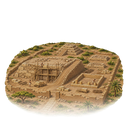
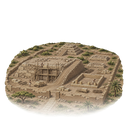
Royal Tomb takes the map grade; tomb-stands card shows its painting; one game-length line
- Map copy landmarks/goal-royaltomb-256.png and stages muted to the wonders' map saturation (tools/art/goal-landmark-grade.py); cards keep the unlocks/ copy.
- Egypt's own tomb-stands card shows goal-royaltomb.
- Records: PROVENANCE, construction and unlocks READMEs, legatum-art rule.
- Text: the calendar note drops its 250-300 turn line (the Guide says 140-220); the tomb stands at its capital; the multi-player refusal says 'other players' like the title screen.

Claude-Session: https://claude.ai/code/session_01YXxZpmSsmtkSw6yxEwzLwx

diff --git a/app/src/ui/GuideContent.tsx b/app/src/ui/GuideContent.tsx
@@ -290,7 +290,7 @@ export function GuideContent({ section }: { section: GuideSection }) {
       <p>Select a level {RULES.coloniaLevel} melee veteran and the Settle lens rings each site that counts in gilt, judged from the land you have explored. Its top three picks are then Colonia sites, and on such a site its card offers “Found Colonia Victrix”. If no site you know counts yet, explore within {RULES.coloniaBorderReach} tiles of a rival’s land.</p>
       <p>Every empire sees where the Colonia Victrix stands, even through fog. Whoever holds its city scores {factionGoalVp('Rome')} VP; capturing it takes the points, and retaking it brings them back. If it is razed or sacked, the points are gone and Rome may found another.</p>
       <p><b>The Royal Tomb (Egypt):</b> goes to whoever holds its city. Build the Royal Tomb from the Victory race (G). While the work is on, none of your cities builds or grows. Each city loses its Production and its Food beyond what its people eat; its breakdown shows it. Gold and Science still come in, and you can still buy with Gold. A city short of Food still starves.</p>
-      <p>After {RULES.tombTurns} turns of work the tomb stands in your capital, or in your largest city if you have no capital, and your cities build and grow again. You may pause at any time: the count is kept, and resuming carries on from it. Every empire sees the work, its count and the city where the tomb will stand, and the turn report says when it starts, pauses and finishes.</p>
+      <p>After {RULES.tombTurns} turns of work the tomb stands at your capital, or at your largest city if you have no capital, and your cities build and grow again. You may pause at any time: the count is kept, and resuming carries on from it. Every empire sees the work, its count and the city where the tomb will stand, and the turn report says when it starts, pauses and finishes.</p>
       <p>Whoever holds the tomb’s city scores {factionGoalVp('Egypt')} VP; capturing it takes the points, and retaking it brings them back. If the city is razed or sacked, the tomb is gone and Egypt may build another from the start.</p>
       <p>A gilt-ringed seal on a city banner means that holding the city scores VP: the capital star, Rome’s laurel for the Colonia Victrix, and Egypt’s tomb for the Royal Tomb. A dashed seal means it does not stand yet: while Egypt builds, the tomb seal is dashed on the city where it will stand.</p>
       <p>Action goals have a visible button in the Victory race, even while blocked; the disabled button says what is needed. Press G to open an available goal action. Athens can Share the Learning, the Celts can raise warbands, the Aztecs can kindle the New Fire, and Egypt can build or pause the Royal Tomb. In legacy Sakoku games, the country can be closed for the vow. Sparta can retire a veteran from the Victory race or its unit card. When an action first becomes available, This Turn offers it once; Not now keeps its button in the Victory race. The Celts’ Raise the Warbands is offered only when its {factionGoalVp('Celts')} VP would bring you within 1 VP of victory; before that, use its Victory race button. Athens’ Share the Learning is offered only when its {factionGoalVp('Athens')} VP would win you the game; before that, use its Victory race button. Orders are confirmed first and happen when the turn ends. Share the Learning gives every rival outside Athens’ team {RULES.signalFreeTechs} free technologies, chosen by the rival. A rival that captures an Athenian city also gains one free technology, once per city for each empire. Picks left after an era is finished carry into the next era. A free technology choice you receive stays on your list until you choose.</p>

diff --git a/app/src/celebrate/moments.ts b/app/src/celebrate/moments.ts
@@ -69,7 +69,7 @@ export interface Moment {
 /** The painted building a faction goal's generic completion card shows (the faction's own version: Ruhr Foundry, Lyceum). */
 const GOAL_BUILDING: Partial<Record<Faction, BuildingKind>> = { Germany: 'Forge', Athens: 'Library' };
 /** The painted scene a goal with no building shows: Switzerland's Reserve, the Celts' Warbands, the Aztecs' New Fire. */
-const GOAL_ART: Partial<Record<Faction, string>> = { Switzerland: 'goal-reserve', Celts: 'goal-warbands', Aztecs: 'goal-newfire' };
+const GOAL_ART: Partial<Record<Faction, string>> = { Switzerland: 'goal-reserve', Celts: 'goal-warbands', Aztecs: 'goal-newfire', Egypt: 'goal-royaltomb' };
 
 export function ruinText(reward: RuinReward, cityName: (id: number) => string, faction?: Faction): { title: string; effect: string; lore: string; details: string[]; tier: Tier; deltas: Moment['deltas']; gains: Gain[]; emblem: Emblem } {
   const text: ReturnType<typeof ruinText> = (() => { switch (reward.kind) {
@@ -351,7 +351,7 @@ export function momentsForTurn(events: readonly Event[], viewer: PlayerId, befor
                 details: ['Every empire sees where it stands. A rival that captures it takes the points.', 'If it is razed, found another.'],
                 deltas: [{ counter: 'vp', amount: e.vp }], seal: e.vp });
             } else {
-              push(i, e.player, { goalMark: GOAL_CITY_ICON[goalKind], tier: 'legendary', at, title: 'The Royal Tomb', kicker: name ? `It stands in ${name}` : 'The tomb stands',
+              push(i, e.player, { goalMark: GOAL_CITY_ICON[goalKind], tier: 'legendary', at, title: 'The Royal Tomb', kicker: name ? `It stands in ${name}` : 'The tomb stands', artSlug: GOAL_ART.Egypt,
                 effect: `+${e.vp} VP while you hold it · your cities build and grow again`, lore: 'Cut into the cliff, sealed for eternity.',
                 details: ['Every empire sees where it stands. A rival that captures its city takes the points.'],
                 deltas: [{ counter: 'vp', amount: e.vp }], seal: e.vp });

diff --git a/app/src/data.ts b/app/src/data.ts
@@ -35,7 +35,7 @@ const CALENDAR_LABELS = RULES.calendarLabels as readonly string[];
 /** The display year of a turn, "1040 AD" (core `calendar::calendar_label`, exported with the rules; display only, never a rule). */
 export const calendarLabel = (turn: number): string => CALENDAR_LABELS[Math.min(Math.max(0, Math.floor(turn)), CALENDAR_LABELS.length - 1)];
 /** The one plain line that explains the year wherever it is shown. */
-export const CALENDAR_NOTE = 'The year follows the turn number and changes nothing in the game. A game is expected to end between turn 250 and 300.';
+export const CALENDAR_NOTE = 'The year follows the turn number and changes nothing in the game.';
 export const CAPTURE_RESISTANCE_TURNS: number = RULES.captureResistanceTurns;
 export const ignoresWounds = (faction: Faction | undefined, kind: UnitKind): boolean =>
   !!faction && (RULES.woundImmunity[faction] as readonly string[]).includes(kind);
@@ -624,7 +624,7 @@ export const FACTION_GOAL: Record<Faction, FactionGoal> = {
     name: 'The Royal Tomb', live: goalLive('Egypt'), held: goalHeld('Egypt'), heldItem: 'its city', icon: 'goal-royal-tomb', action: 'Build the Royal Tomb',
     rule: () => `Build the Royal Tomb: ${RULES.tombTurns} turns in which no city builds or grows. Whoever holds its city scores ${goalVp('Egypt')} VP`,
     ask: () => `Build the Royal Tomb: ${RULES.tombTurns} turns in which no city builds or grows`,
-    detail: () => `While you build it, none of your cities builds or grows. After ${RULES.tombTurns} turns of work it stands in your capital. Whoever holds that city scores ${goalVp('Egypt')} VP`,
+    detail: () => `While you build it, none of your cities builds or grows. After ${RULES.tombTurns} turns of work it stands at your capital. Whoever holds that city scores ${goalVp('Egypt')} VP`,
   },
   Aztecs: SWARM_GOAL,
   Switzerland: {

diff --git a/app/src/celebrate/moments.test.ts b/app/src/celebrate/moments.test.ts
@@ -585,6 +585,13 @@ describe('goal city moments', () => {
     expect(card.effect).toMatch(/is building its Royal Tomb in Thebes: 2 VP to whoever holds the city\. 9 turns of work left\.$/);
   });
 
+  it('Egypt’s own tomb-stands card shows the tomb painting', () => {
+    const after = structuredClone(view);
+    after.players[0].faction = 'Egypt';
+    const [card] = momentsForTurn([{ type: 'FactionGoalCompleted', player: 0, faction: 'Egypt', vp: 2 }], 0, view, after);
+    expect(card).toMatchObject({ tier: 'legendary', title: 'The Royal Tomb', goalMark: 'goal-royal-tomb', artSlug: 'goal-royaltomb' });
+  });
+
   it('the owner’s own Colonia Victrix card wears the laurel', () => {
     const after = structuredClone(view);
     after.players[0].faction = 'Rome';

diff --git a/app/src/store.ts b/app/src/store.ts
@@ -1573,7 +1573,7 @@ export const useGame = create<State>((set, get) => {
           }
           throw new Error(olderRulesMessage(save.playtest));
         }
-        if (needsOnlineHost(save)) throw new Error('This game has more than one human player. Open it from Multiplayer with Host from a save, and the others rejoin online.');
+        if (needsOnlineHost(save)) throw new Error('This game has other players. Open it from Multiplayer with Host from a save, and they rejoin online.');
         if (save.client !== 'wasm') throw new Error('This save used the retired TypeScript engine and cannot be loaded by the Rust engine.');
         const client = await createClient(save.client);
         measureTurn('loadClient', () => client.load(save.game));

diff --git a/app/src/map/tombLandmark.ts b/app/src/map/tombLandmark.ts
@@ -14,7 +14,8 @@ import { iconLoaded } from '../icons';
 export interface TombPiece { city: number; owner: number; tile: number; hex: Hex; k: number }
 
 const STEM = 'goal-royaltomb';
-const finishedUrls = import.meta.glob<string>('../assets/unlocks/goal-royaltomb-256.png', { eager: true, query: '?url', import: 'default' });
+// The map's graded copy (tools/art/goal-landmark-grade.py); the goal card keeps the ungraded unlocks/ copy.
+const finishedUrls = import.meta.glob<string>('../assets/landmarks/goal-royaltomb-256.png', { eager: true, query: '?url', import: 'default' });
 const FINISHED_URL = Object.values(finishedUrls)[0] ?? null;
 let finished: HTMLImageElement | null = null;
 

diff --git a/app/src/store.test.ts b/app/src/store.test.ts
@@ -92,7 +92,7 @@ describe.each(clients)('store on the %s client', (_name, available, load) => {
     await useGame.getState().loadSave(oldSave);
     expect(useGame.getState().client).toBe(previous);
     expect(useGame.getState().error).toContain('Open it from Multiplayer with Host from a save');
-    expect(useGame.getState().error).toContain('the others rejoin online');
+    expect(useGame.getState().error).toContain('they rejoin online');
   });
 
   it.skipIf(!available)('only auto-opens the report for diplomacy involving the viewer team', async () => {

diff --git a/tools/art/goal-landmark-grade.py b/tools/art/goal-landmark-grade.py
@@ -1,0 +1,44 @@
+"""Map grade for a faction-goal landmark (the Royal Tomb) after `wonder-art.py` made its master and stages.
+
+`wonder-art.py` gives every landmark the shared `atlas_edit` grade, but a painting that starts warmer than the
+world wonders (the Royal Tomb's sandstone and ochre) still reads orange beside the towns. This takes the map copies
+down to the wonders' map saturation: the finished painting goes to `app/src/assets/landmarks/<stem>-256.png`
+(the map draws it; cards keep the `unlocks/` copy), and the three construction stages are regraded in place.
+
+    python3 tools/art/goal-landmark-grade.py goal-royaltomb 0.66
+
+Run it once, straight after `wonder-art.py master` and `stage`: the stages are overwritten in place, so running it
+again grades them twice. The finished map copy always starts from the master, so that part is repeatable.
+"""
+
+import sys
+from pathlib import Path
+
+from PIL import Image, ImageEnhance
+
+ROOT = Path(__file__).resolve().parents[2]
+ASSETS = ROOT / "app/src/assets"
+
+
+def mute(img: Image.Image, colour: float) -> Image.Image:
+    img = img.convert("RGBA")
+    rgb = ImageEnhance.Color(img.convert("RGB")).enhance(colour)
+    return Image.merge("RGBA", (*rgb.split(), img.getchannel("A")))
+
+
+def main(stem: str, colour: float) -> None:
+    master = ROOT / "docs/design/unlock-art/masters" / f"{stem}.png"
+    (ASSETS / "landmarks").mkdir(exist_ok=True)
+    mute(Image.open(master), colour).resize((256, 256), Image.Resampling.LANCZOS).save(
+        ASSETS / "landmarks" / f"{stem}-256.png", optimize=True
+    )
+    for n in (1, 2, 3):
+        path = ASSETS / "construction" / f"{stem}-stage{n}.png"
+        graded = mute(Image.open(path), colour)
+        graded.save(path, optimize=True)
+        for size in (128, 256):
+            graded.resize((size, size), Image.Resampling.LANCZOS).save(path.with_name(f"{path.stem}-{size}.png"), optimize=True)
+
+
+if __name__ == "__main__":
+    main(sys.argv[1], float(sys.argv[2]))

diff --git a/app/src/assets/PROVENANCE.md b/app/src/assets/PROVENANCE.md
@@ -11,11 +11,11 @@ The date range is the range of dates the repository's own records give (prompt h
 | Title key art | `app/src/assets/art/title-keyart-c-road-at-dawn.*` | Generated; master resampled to 2560 × 1440 (master archived outside git, `tools/art/sources-manifest.json`), JPEG derived | Yes, beside the JPEG | 2026-11-01 to 2026-11-16 |
 | People portraits (eleven couples) | `app/src/assets/art/people-*` | Generated; 512 px and 360 px derivatives (the full-size masters are archived outside git, `tools/art/sources-manifest.json`). Six were repainted by image edit on 2026-11-22 (faces); the Spartan man's upper lip shaved by a second masked edit the same day | Yes, beside each master | 2026-11-01 to 2026-11-22 |
 | Random choice painting | `app/src/assets/art/random-choice-360.jpg` | Generated (Codex image generation, 2026-11-22): a still life of cast knucklebones on an unfinished sea chart for the faction sheet's Random frame; the 1254 px master is archived outside git (`tools/art/sources-manifest.json`) | Yes, `random-choice.prompt.txt` | 2026-11-22 |
-| Faction goal scenes | `app/src/assets/unlocks/goal-{reserve,warbands,newfire}-*.png` | Generated (Codex image generation, 2026-11-22): goal-card miniatures for Switzerland, the Celts and the Aztecs (the first two then image-edited: no Swiss cross; no acrylic base), keyed and fitted by `tools/art/unlock-art.py`; the 1254 px masters are archived outside git (`tools/art/sources-manifest.json`) | Yes, beside each file | 2026-11-22 |
+| Faction goal scenes | `app/src/assets/unlocks/goal-{reserve,warbands,newfire,royaltomb}-*.png` | Generated (Codex image generation, 2026-11-22; the Royal Tomb 2026-11-25 on a magenta field through `tools/art/wonder-art.py`, its 1254 px master and prompt in `docs/design/unlock-art/masters/` like the world wonders', its map copy `landmarks/goal-royaltomb-256.png` graded by `tools/art/goal-landmark-grade.py`): goal-card miniatures for Switzerland, the Celts, the Aztecs and Egypt (the first two then image-edited: no Swiss cross; no acrylic base), keyed and fitted by `tools/art/unlock-art.py`; the 1254 px masters are archived outside git (`tools/art/sources-manifest.json`) | Yes, beside each file | 2026-11-22 |
 | Unit miniatures | `app/src/assets/units/` | Generated on a flat magenta field, keyed to alpha, resized (`-source`, archived outside git, `-256`, `-64`, `-48`, card and panel crops). A reference miniature from the same set was attached to each request for style. Roundels (`*-roundel.svg`) are code | Yes for most: beside the file or in `units/prompts/`. None for the top-down aircraft plan sprites in `units/air/` | 2026-11-01 to 2026-11-22 |
 | Siege props | `app/src/assets/siege-props/` | Generated, keyed, resized | Yes, beside each source | Not recorded |
 | City miniatures | `app/src/assets/cities/` | Generated as sets, cut out and resized | Set prompts: some beside the files, the rest in `docs/design/city-art/prompts/` | 2026-10-10 to 2026-11-16 |
-| Construction stages (wonders and landmarks) | `app/src/assets/construction/` | Generated master on magenta, then each stage an image edit of that master; keyed and aligned by `tools/art/wonder-art.py` and `tools/art/landmark-atlas-edit.py` | Yes for most, beside the full-size images | 2026-10-24 to 2026-11-22 |
+| Construction stages (wonders and landmarks) | `app/src/assets/construction/` | Generated master on magenta, then each stage an image edit of that master; keyed and aligned by `tools/art/wonder-art.py` and `tools/art/landmark-atlas-edit.py` (Egypt's Royal Tomb `goal-royaltomb-stage*`, 2026-11-25, then muted by `tools/art/goal-landmark-grade.py`) | Yes for most, beside the full-size images | 2026-10-24 to 2026-11-22 |
 | Era illustrations | `app/src/assets/eras/` | Generated 1920 × 1080 masters; 1280 × 720 and 720 × 1280 crops | Yes, beside each master | 2026-11-16 |
 | Unlock art (buildings, improvements, effects on tech cards, city projects) | `app/src/assets/unlocks/` | Generated, keyed, resized | Partly: a few beside the files, the rest in `docs/design/unlock-art/` (`buildings.md`, `buildings-2.md`, `tiles-effects.md`, `masters/`) | 2026-10-11 to 2026-11-22 |
 | Landmark map copies | `app/src/assets/landmarks/` | The world wonders' and Great Works' unlock paintings as graded for the map (`tools/art/landmark-atlas-edit.py`, `wonder-art.py`); the card copies in `unlocks/` have that grade undone by `tools/art/card-grade.py` | As for unlock art | 2026-11-01; split 2026-11-22 |

diff --git a/.claude/skills/legatum-art/SKILL.md b/.claude/skills/legatum-art/SKILL.md
@@ -27,7 +27,7 @@ Don't copy those rules here; extend them there and keep this skill to direction 
 - **One line language:** the same pen weights everywhere on the map at a given zoom (set in `style.ts`). New sprites reuse those weights, never their own.
 - **Player colour is a tint, not a fill:** ornaments, borders and seals take the player colour through `currentColor` or a translucent wash; the terrain still reads underneath (overlays about 0.5–0.6 opacity). Territory is the exception to "only a thin accent line stronger" (revised 2026-10-09, after a target player could not tell whose land was whose): a territory border is a bold seat-colour line with an ink edge over an 0.18 tint, drawn like an atlas's coloured outline and wash. The terrain still reads under the tint; the line is the strong part.
 - **Icons:** single-colour `currentColor` glyphs on the 24-unit grid, drawn as solid silhouettes with knocked-out detail (not monoline: that is what the set always was), readable at 16 px, one consistent metaphor per concept everywhere it appears (the same Food glyph in the yield bar, tooltips, city banner and tech card). Every unit, building tier and faction replacement piece has its own icon, and text glyphs (warning, check, cross, arrows, letters) are never used as icons: add a `ui-*` or `mark-*` icon.
-- **Goal marks (art review of the Colonia Victrix and Royal Tomb marks, 2026-11-22; reviewer's rules, accepted by the lead):** a glyph inside a wreath or ring gives the inner subject at least 40% of the grid width, or only the ring survives at 16 px; a mark with a fine and a heavy variant uses the heavy one wherever it is drawn under 20 px, on the map or in the UI; a goal mark is checked for distinctness against its own faction's glyph, because they sit side by side on every banner. Owed once a goal's design is settled: its two-tone reward emblem for the celebration card, and a landmark with construction stages for a goal that "stands" in a city (the Royal Tomb has neither yet).
+- **Goal marks (art review of the Colonia Victrix and Royal Tomb marks, 2026-11-22; reviewer's rules, accepted by the lead):** a glyph inside a wreath or ring gives the inner subject at least 40% of the grid width, or only the ring survives at 16 px; a mark with a fine and a heavy variant uses the heavy one wherever it is drawn under 20 px, on the map or in the UI; a goal mark is checked for distinctness against its own faction's glyph, because they sit side by side on every banner. Owed once a goal's design is settled: its two-tone reward emblem for the celebration card, and a landmark with construction stages for a goal that "stands" in a city (the Royal Tomb's landmark and stages are done, 2026-11-25; its reward emblem is still owed). A faction-goal landmark drawn on the map takes the map grade like any wonder: a graded `landmarks/` copy and graded stages, with the ungraded copy for cards only. A painting that starts warmer than the wonders needs more than the shared `atlas_edit` grade: check its mean saturation against the wonders' map copies (about 0.31 to 0.40 at 256 px) and mute it with `tools/art/goal-landmark-grade.py`.
 - **Paintings** (portraits, key art): the oil technique and parchment-compatible pigments of the current set; no text in the image; prompts saved next to the file.
 - **Historical people portraits (user, 2026-10-10):** depict exactly two unnamed adults, one man and one woman, as representative people rather than named leaders. Both are half-length with faces large, distinct and readable at 128 px; keep both hands natural when visible. Use the established refined oil technique and parchment-compatible pigments, but let period clothing, materials and a recognizable historical setting carry the identity. No fantasy, sci-fi, caricature, stereotype exaggeration, text, watermark or additional people. Each portrait's prompt records its people and era; provide a 1024 px original, 512 px PNG and 360 px JPEG.
   - **Every faction ships a `people-<faction>` pair portrait in the same change that adds the faction; there is no single-leader fallback (user, 2026-11-01, after India showed Akbar alone).** India's pair is a Mughal court official (diwan) and a noblewoman of his household, c. 1600. The `leader-*` art and the loader fallback are deleted, and `src/portraits.test.ts` fails if a playable faction lacks its `people-<faction>` files.

diff --git a/app/src/assets/unlocks/README.md b/app/src/assets/unlocks/README.md
@@ -27,6 +27,8 @@ Three faction goals with no building of their own have a painted scene for their
 
 India uses generated painted miniatures (given a ground patch by an image edit, 2026-11-22) `building-market-india-*` for its Revenue Office (Market replacement) and `building-imperialdiwan-*` for its held-goal building. Prompt records sit beside the assets.
 
+Egypt's goal has a painted scene too (2026-11-25): `goal-royaltomb`, an Old Kingdom walled precinct with a battered mastaba, a sandstone chapel, two small mastabas and one small pyramid. It is the goal card's picture when the tomb stands, and the finished landmark on the map (from its graded copy in `../landmarks/`). Its prompt is beside the master in `docs/design/unlock-art/masters/`, like the world wonders'.
+
 ## Card art and map art (2026-11-22)
 
-The seven world wonders and Great Works that stand on the map (`building-pyramids`, `-hagiasophia`, `-eiffeltower`, `-iterfusionreactor`, `-greatlibrary`, `-grandbazaar`, `-royalarsenal`) have two copies. `../landmarks/<slug>-256.png` is the map painting, graded to the towns' palette with its ground washed into the hex (`map/landmarks.ts` `landmarkArtUrl` draws it). The files here are the same painting with that grade undone and the ground firmed up (`tools/art/card-grade.py`), because on cards beside ungraded neighbours the map grade read as washed out (art audit 2026-11-22). The Oil Well and Quartz Mine cards were lifted the same way. New pieces go through `tools/art/unlock-art.py RAW.png <slug>` (edge key, fit to the set's footprint, no grade).
+The seven world wonders and Great Works that stand on the map (`building-pyramids`, `-hagiasophia`, `-eiffeltower`, `-iterfusionreactor`, `-greatlibrary`, `-grandbazaar`, `-royalarsenal`), and Egypt's `goal-royaltomb` (graded by `tools/art/goal-landmark-grade.py`, 2026-11-25), have two copies. `../landmarks/<slug>-256.png` is the map painting, graded to the towns' palette with its ground washed into the hex (`map/landmarks.ts` `landmarkArtUrl` draws it). The files here are the same painting with that grade undone and the ground firmed up (`tools/art/card-grade.py`), because on cards beside ungraded neighbours the map grade read as washed out (art audit 2026-11-22). The Oil Well and Quartz Mine cards were lifted the same way. New pieces go through `tools/art/unlock-art.py RAW.png <slug>` (edge key, fit to the set's footprint, no grade).

diff --git a/app/src/assets/construction/README.md b/app/src/assets/construction/README.md
@@ -41,6 +41,15 @@ lattice yurt frames, and partially covered roof ribs, with matching 256 and 128
 px derivatives. These were added after the original stage set; the designer has
 not reviewed their alignment or construction clip yet.
 
+Egypt's Royal Tomb (`goal-royaltomb`, 2026-11-25) is a faction-goal landmark with the same
+three stages, made the same way with `tools/art/wonder-art.py` (master and stages registered
+by `wonder-fit.json`): the levelled enclosure footings, the wall and mastaba at half height,
+then the precinct nearly complete with the small pyramid unfinished. Its painting starts warmer
+than the world wonders, so `tools/art/goal-landmark-grade.py goal-royaltomb 0.62` then took the
+stages (and the map copy in `../landmarks/`) down to the wonders' map saturation. Prompts are
+beside each full-size stage. Follow-up: stage 1's enclosure has a rounded front-left corner where
+the finished wall is square.
+
 **Alignment rule:** each stage's camera, scale, structure footprint and ground
 patch stay registered to its finished master. Review the Great Library stages at
 50% opacity over its master in
